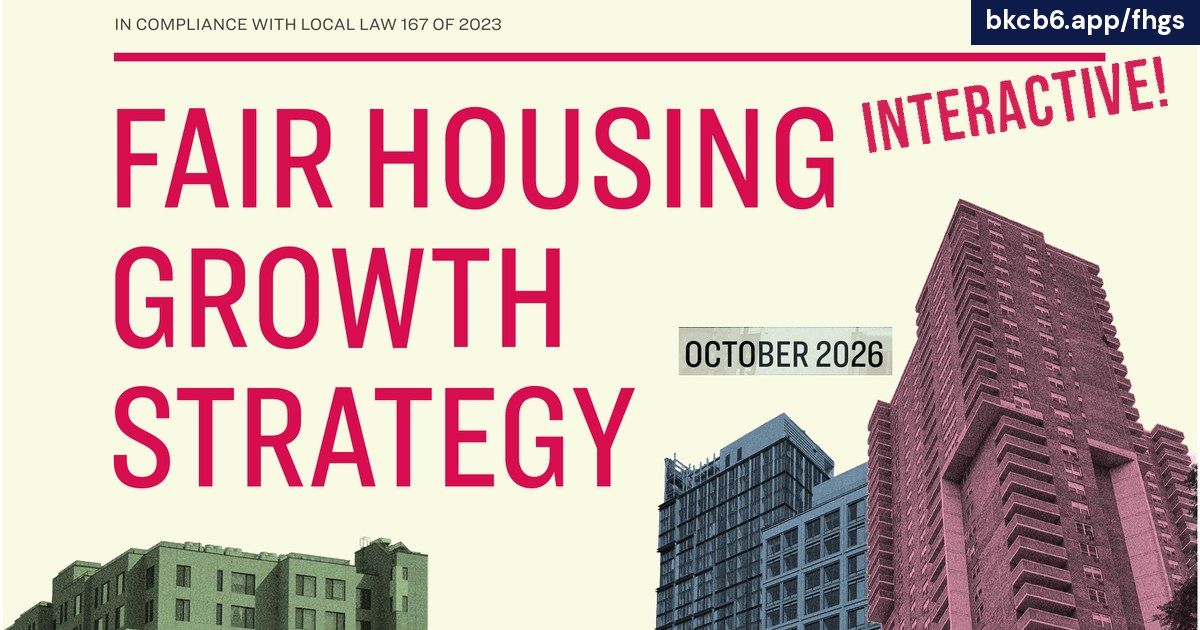
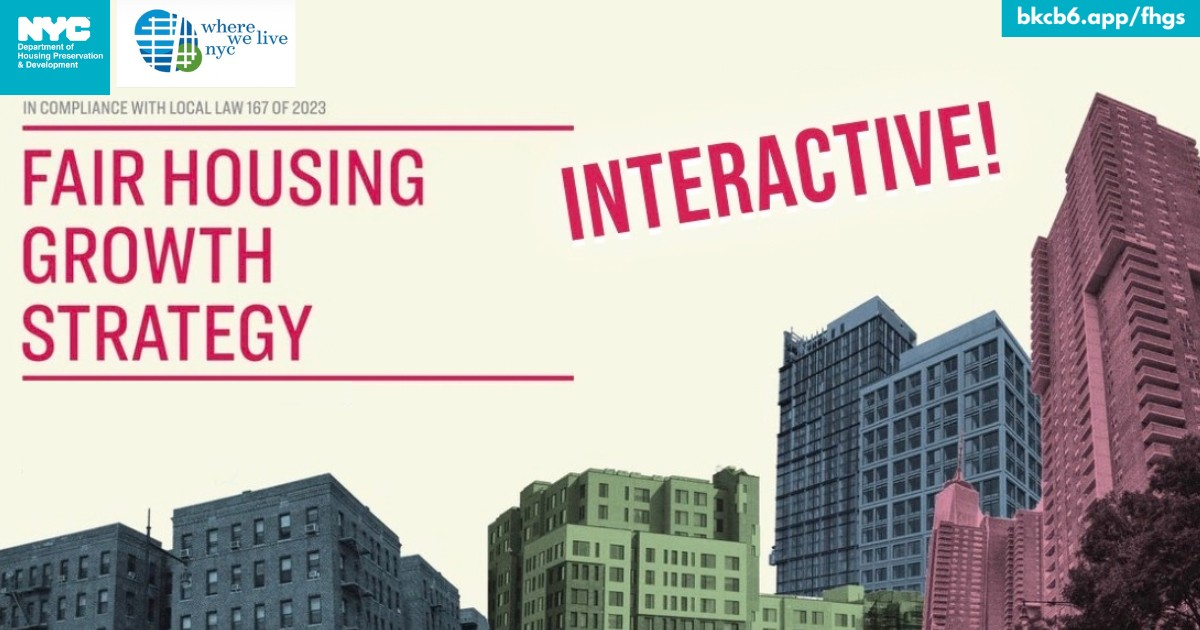
FHGS cover, OG and home button: Mike's image

diff --git a/fhgs/index.html b/fhgs/index.html
@@ -8,11 +8,11 @@
 <meta property="og:title" content="Fair Housing Growth Strategy: Final Report">
 <meta property="og:description" content="HPD and DCP&rsquo;s first Fair Housing Growth Strategy, the final report of October 2026, searchable: 700,000 homes needed by 2035, 350,000 by 2030, the 2030 target for all 59 community districts on a map, how each one was set, and the 21 equity strategies.">
 <meta property="og:url" content="https://bkcb6.app/fhgs/">
-<meta property="og:image" content="https://bkcb6.app/og-fhgs.jpg?v=4">
+<meta property="og:image" content="https://bkcb6.app/og-fhgs.jpg?v=5">
 <meta property="og:image:width" content="1200"><meta property="og:image:height" content="630">
 <meta property="og:image:alt" content="Fair Housing Growth Strategy, final report, October 2026, interactive at bkcb6.app/fhgs">
 <meta name="twitter:card" content="summary_large_image">
-<meta name="twitter:image" content="https://bkcb6.app/og-fhgs.jpg?v=4">
+<meta name="twitter:image" content="https://bkcb6.app/og-fhgs.jpg?v=5">
 <title>Fair Housing Growth Strategy &mdash; bkcb6.app</title>
 <link rel="preconnect" href="https://fonts.googleapis.com">
 <link rel="preconnect" href="https://fonts.gstatic.com" crossorigin>
@@ -256,7 +256,7 @@ table.tt{border-collapse:collapse;width:100%;min-width:760px;font-size:.78rem}
   </header>
 
   <a class="planbanner" href="#p-1" data-open-page="1">
-    <img src="/fhgs/cover.jpg?v=4" width="1200" height="630" alt="Fair Housing Growth Strategy, October 2026, Where We Live NYC, interactive">
+    <img src="/fhgs/cover.jpg?v=5" width="1200" height="630" alt="Fair Housing Growth Strategy, October 2026, Where We Live NYC, interactive">
   </a>
 
   <div class="numbar" id="numbar"></div>

diff --git a/index.html b/index.html
@@ -490,7 +490,7 @@
     <img src="app-home/btn-bkcompplan.jpg" width="1200" height="930" alt="The 2025 Comprehensive Plan for Brooklyn, interactive" loading="lazy">
   </a>
 <a class="hero-link" href="/fhgs/" style="margin-bottom:14px">
-    <img src="app-home/btn-fhgs.jpg?v=3" width="1200" height="930" alt="Fair Housing Growth Strategy final report, interactive" loading="lazy">
+    <img src="app-home/btn-fhgs.jpg?v=4" width="1200" height="930" alt="Fair Housing Growth Strategy final report, interactive" loading="lazy">
   </a>
 
   <a class="iso-btn" href="/useofland/" style="margin-top:12px">

diff --git a/sw.js b/sw.js
@@ -1,5 +1,5 @@
 // CB6 & Beyond — Service Worker
-const CACHE_VERSION = 'cb6-v6662073';
+const CACHE_VERSION = 'cb6-v6662074';
 const CORE_ASSETS = [
   '/',
   '/index.html',
